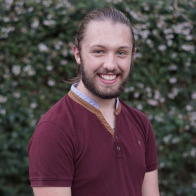
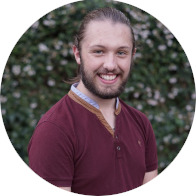
fix profile image

diff --git a/src/components/Cards/Profile.vue b/src/components/Cards/Profile.vue
@@ -49,8 +49,6 @@ export default {
 .v-img {
     min-width: 150px;
     max-width: 100%;
-    height: auto;
-    border-radius: 50%;
     flex: 1;
 }
 
